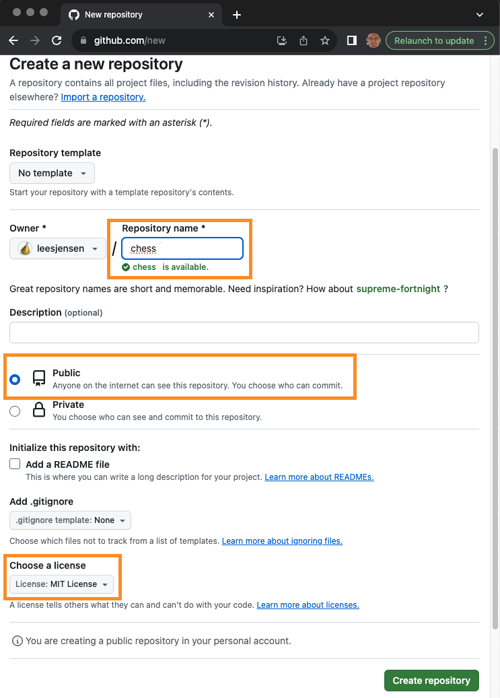
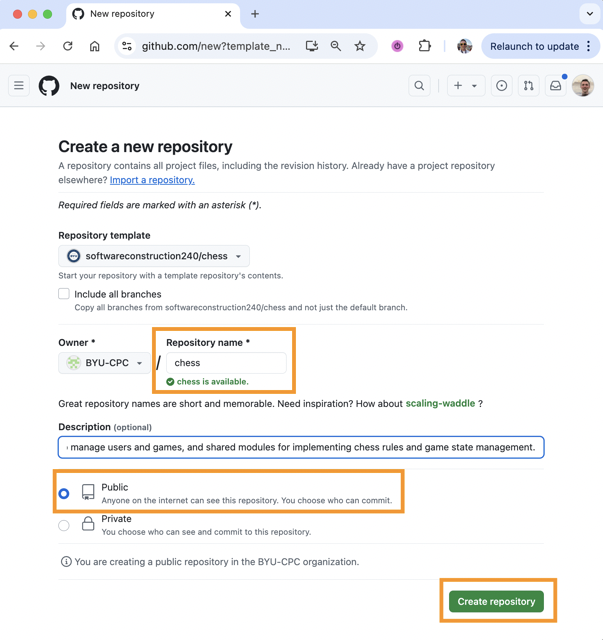
Update screenshots in instuctions

Changed region(s): [[0.0, 0.0, 1.0, 0.9375], [0.96, 0.1875, 1.0, 0.9062], [0.72, 0.9062, 0.96, 1.0]]

diff --git a/chess/chess-github-repository/chess-github-repository.md b/chess/chess-github-repository/chess-github-repository.md
@@ -34,6 +34,9 @@ If you do not have the required number of commits, or if they are all clustered 
 1. Use the template to create your own chess repository:
    1. Press "Use this template"
    1. Choose "Create a new Repository"
+
+      ![use template](use-template.png)
+
    1. Name it `chess`.
    1. Optionally, give it a meaningful description such as:
        > Full-stack chess application built as a course project for BYU CS 240. It features a networked client-server architecture, with a command-line client, a server to manage users and games, and shared modules for implementing chess rules and game state management.
